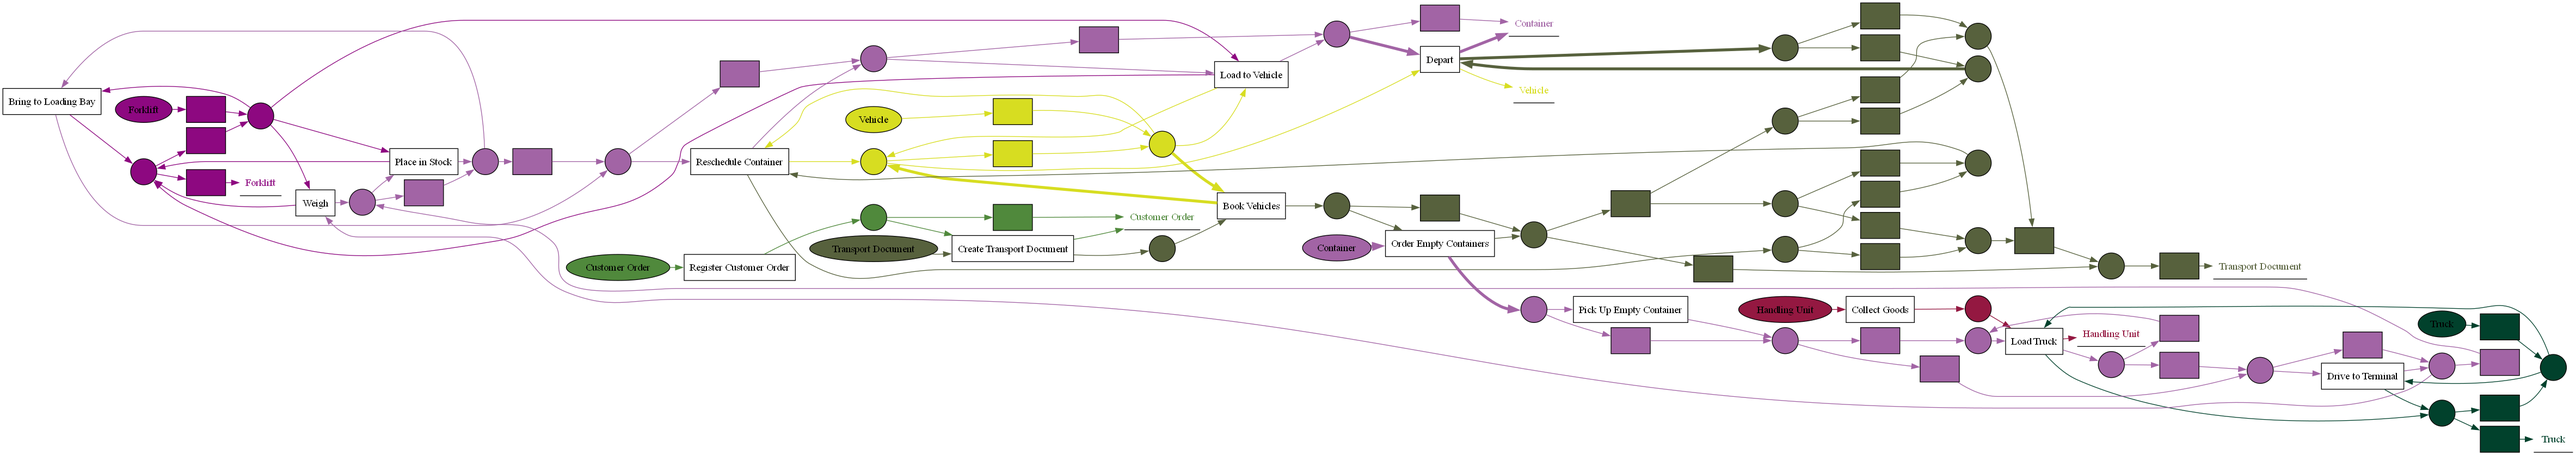
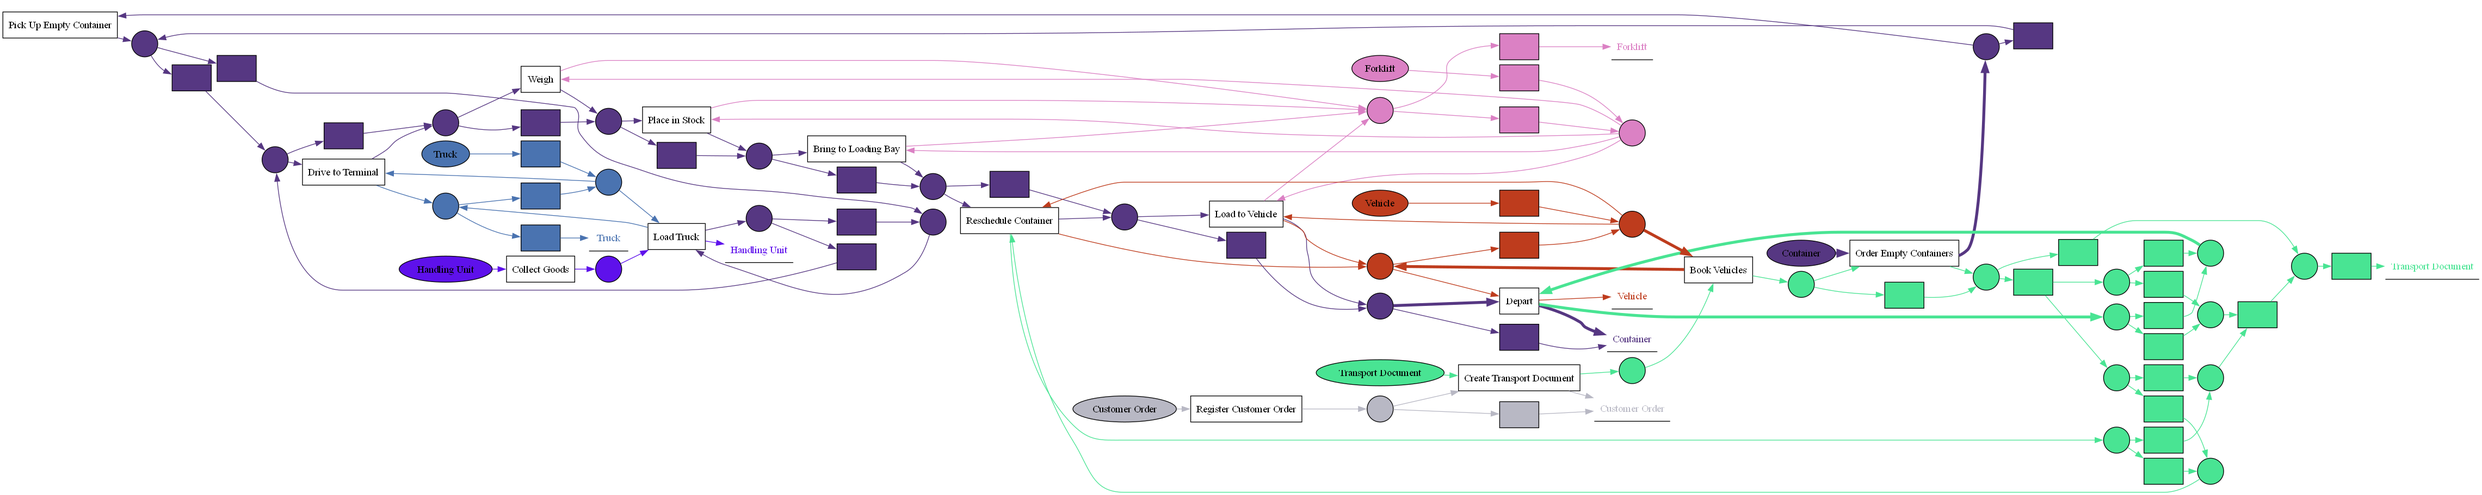
run visual comparison pm4py and lib ocpn

Changed region(s): [[0.0, 0.0, 1.0, 1.0], [0.1245, 0.0621, 0.1868, 0.0932]]

diff --git a/totem_lib/example_ocpn.py b/totem_lib/example_ocpn.py
@@ -1,8 +1,20 @@
 import pm4py
 import os
+from totem_lib import import_ocel, discover_oc_petri_net_polars
+from datetime import datetime
 
+# Using pm4py
+start_pm4py = datetime.now()
 ocel = pm4py.read_ocel2_json(os.path.join("example_data", "ContainerLogistics.json"))
-model = pm4py.discover_oc_petri_net(ocel)
-output_path = os.path.join("figures", "ContainerLogistics_ocpn_pm4py.png")
-# pm4py.view_ocpn(model, format="png")
-pm4py.save_vis_ocpn(model, output_path)
+ocpn_from_pm4py = pm4py.discover_oc_petri_net(ocel)
+end_pm4py = datetime.now()
+print(f"PM4Py OCPN discovery took: {end_pm4py - start_pm4py}")
+pm4py.save_vis_ocpn(ocpn_from_pm4py, os.path.join("figures", "ContainerLogistics_ocpn_pm4py.png"))
+
+# Using totem_lib with Polars and the adapter
+start_lib = datetime.now()
+ocel = import_ocel(os.path.join("example_data", "ContainerLogistics.json"))
+ocpn_from_lib = discover_oc_petri_net_polars(ocel)  # uses an adapter internally
+end_lib = datetime.now()
+print(f"totem_lib OCPN discovery took: {end_lib - start_lib}")
+pm4py.save_vis_ocpn(ocpn_from_lib, os.path.join("figures", "ContainerLogistics_ocpn_lib.png"))
